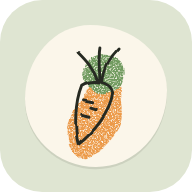
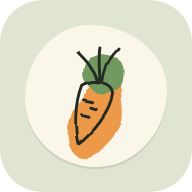
Lista base da casa e cores lisas nos desenhos

Changed region(s): [[0.3438, 0.2812, 0.6562, 0.8438]]

diff --git a/js/dados.js b/js/dados.js
@@ -1,11 +1,18 @@
-// Itens sugeridos no primeiro uso. Tudo pode ser editado ou apagado depois.
+// Lista base da casa, carregada no primeiro uso. Tudo pode ser editado ou apagado depois.
 
 const SUGESTAO = [
-  { nome: 'Mercearia', icone: 'arroz', itens: ['Arroz', 'Feijão', 'Macarrão', 'Açúcar', 'Sal', 'Café', 'Óleo', 'Molho de tomate'] },
-  { nome: 'Carnes e ovos', icone: 'carne', itens: ['Carne moída', 'Frango', 'Bife', 'Linguiça', 'Ovos'] },
-  { nome: 'Frios e laticínios', icone: 'queijo', itens: ['Leite', 'Manteiga', 'Queijo', 'Presunto'] },
-  { nome: 'Hortifrúti', icone: 'cenoura', itens: ['Alho', 'Cebola', 'Tomate', 'Batata', 'Banana'] },
-  { nome: 'Padaria', icone: 'pao', itens: ['Pão'] },
-  { nome: 'Limpeza', icone: 'limpeza', itens: ['Detergente', 'Sabão em pó', 'Amaciante', 'Água sanitária', 'Esponja', 'Saco de lixo'] },
-  { nome: 'Higiene', icone: 'papel', itens: ['Papel higiênico', 'Sabonete', 'Pasta de dente', 'Shampoo', 'Desodorante'] },
+  { nome: 'Alimentos básicos', icone: 'arroz', itens: ['Arroz', 'Feijão', 'Flocão de milho', 'Tabajara', 'Macarrão', 'Tapioca', 'Açúcar', 'Sal', 'Café solúvel', 'Óleo de soja', 'Azeite de oliva', 'Vinagre', 'Leite', 'Leite em pó'] },
+  { nome: 'Temperos e condimentos', icone: 'tempero', itens: ['Alho', 'Cebola', 'Pimenta-do-reino', 'Páprica defumada', 'Cominho', 'Açafrão', 'Chimichurri', 'Louro', 'Molho de tomate', 'Ketchup', 'Mostarda', 'Maionese', 'Molho shoyu'] },
+  { nome: 'Carnes e proteínas', icone: 'carne', itens: ['Peito de frango', 'Coxa e sobrecoxa', 'Carne moída', 'Carne para bife', 'Ovos', 'Sardinha enlatada'] },
+  { nome: 'Frios e laticínios', icone: 'queijo', itens: ['Queijo mussarela', 'Presunto', 'Requeijão', 'Manteiga', 'Iogurte natural', 'Creme de leite', 'Leite condensado'] },
+  { nome: 'Pães e café da manhã', icone: 'pao', itens: ['Pão de forma'] },
+  { nome: 'Frutas', icone: 'maca', itens: ['Banana', 'Maçã', 'Uva', 'Manga', 'Laranja', 'Limão', 'Abacaxi', 'Morango', 'Tangerina'] },
+  // Cebola já está em Temperos; aparece uma vez só.
+  { nome: 'Verduras e legumes', icone: 'folha', itens: ['Tomate', 'Cenoura', 'Batata inglesa', 'Aipim', 'Alface', 'Repolho', 'Couve', 'Coentro', 'Cebolinha', 'Salsa'] },
+  { nome: 'Congelados e práticos', icone: 'congelado', itens: ['Polpa de frutas'] },
+  { nome: 'Lanches e doces', icone: 'doce', itens: ['Milho para pipoca', 'Gelatina'] },
+  { nome: 'Bebidas', icone: 'garrafa', itens: ['Água mineral (galão de 20 L)', 'Refrigerante'] },
+  { nome: 'Produtos de limpeza', icone: 'limpeza', itens: ['Detergente', 'Sabão em pó', 'Amaciante', 'Água sanitária', 'Desinfetante', 'Limpador multiuso', 'Álcool 70%', 'Desengordurante (Cif)', 'Sabão em barra', 'Esponja', 'Palha de aço', 'Sacos de lixo'] },
+  { nome: 'Higiene pessoal', icone: 'sabonete', itens: ['Papel higiênico', 'Sabonete líquido', 'Shampoo', 'Condicionador', 'Máscara capilar', 'Creme de pentear', 'Creme dental', 'Escova de dentes', 'Fio dental', 'Desodorante', 'Hidratante corporal', 'Protetor solar', 'Absorvente', 'Algodão', 'Cotonetes', 'Espuma de barbear'] },
+  { nome: 'Utilidades domésticas', icone: 'casa', itens: ['Papel-toalha', 'Papel-alumínio', 'Papel-filme', 'Papel-manteiga', 'Aromatizador de ambiente'] },
 ];

diff --git a/js/icones.js b/js/icones.js
@@ -1,4 +1,4 @@
-// Ícones desenhados à mão: uma mancha de giz colorida, um pouco deslocada,
+// Ícones desenhados à mão: uma mancha de cor lisa, um pouco deslocada,
 // com o contorno em traço fino de caneta por cima (caixa de 64×64).
 
 const Icones = (() => {
@@ -108,7 +108,7 @@ const Icones = (() => {
     ['arroz|feijao|lentilha|grao|farinha|acucar|aveia|fuba|milho', 'arroz'],
     ['carne|bife|frango|linguica|bacon|costela|file|patinho|alcatra|salsicha|hamburguer', 'carne'],
     ['queijo|presunto|mussarela|requeijao|manteiga|margarina|iogurte', 'queijo'],
-    ['cenoura|batata|mandioca|beterraba|abobora', 'cenoura'],
+    ['cenoura|batata|mandioca|aipim|beterraba|abobora', 'cenoura'],
     ['pao|bolo|biscoito|bolacha|torrada', 'pao'],
     ['detergente|sabao|amaciante|sanitaria|desinfetante|limpador|alvejante|multiuso|esponja|saco de lixo', 'limpeza'],
     ['papel|guardanapo|lenco', 'papel'],
@@ -123,9 +123,9 @@ const Icones = (() => {
     ['chocolate|doce|bala|chiclete|leite condensado', 'doce'],
     ['racao|areia|petisco', 'pata'],
     ['remedio|vitamina|curativo|dipirona', 'remedio'],
-    ['sal|tempero|pimenta|oregano|alho|cebola|caldo', 'tempero'],
+    ['alface|couve|repolho|rucula|espinafre|cheiro verde|coentro|cebolinha|salsa|brocolis|verdura', 'folha'],
+    ['sal|tempero|pimenta|oregano|alho|cebola|caldo|paprica|cominho|acafrao|louro|chimichurri', 'tempero'],
     ['sabonete|shampoo|condicionador|pasta de dente|escova|desodorante|absorvente|fio dental|creme', 'sabonete'],
-    ['alface|couve|rucula|espinafre|cheiro verde|salsinha|brocolis|verdura', 'folha'],
   ].map(([p, nome]) => [new RegExp(`\\b(${p})`), nome]);
 
   function semAcento(t) {
@@ -187,11 +187,8 @@ const Icones = (() => {
 
   const FILTROS = `<defs>
     <filter id="giz" filterUnits="userSpaceOnUse" x="-10" y="-10" width="84" height="84">
-      <feTurbulence type="fractalNoise" baseFrequency="1.2" numOctaves="2" seed="7" result="r"/>
-      <feColorMatrix in="r" type="matrix" values="0 0 0 0 0  0 0 0 0 0  0 0 0 0 0  3.2 0 0 0 -0.7" result="graos"/>
-      <feComposite in="SourceGraphic" in2="graos" operator="in" result="textura"/>
       <feTurbulence type="fractalNoise" baseFrequency="0.07" numOctaves="2" seed="2" result="onda"/>
-      <feDisplacementMap in="textura" in2="onda" scale="4" xChannelSelector="R" yChannelSelector="G"/>
+      <feDisplacementMap in="SourceGraphic" in2="onda" scale="4" xChannelSelector="R" yChannelSelector="G"/>
     </filter>
     <filter id="traco" filterUnits="userSpaceOnUse" x="-10" y="-10" width="84" height="84">
       <feTurbulence type="fractalNoise" baseFrequency="0.05" numOctaves="2" seed="4" result="onda"/>

diff --git a/index.html b/index.html
@@ -10,7 +10,7 @@
   <link rel="icon" href="./icons/icon-192.png">
   <link rel="apple-touch-icon" href="./icons/apple-touch-icon.png">
   <link rel="preload" href="./fonts/shantell-sans.woff2" as="font" type="font/woff2" crossorigin>
-  <link rel="stylesheet" href="./styles.css?v=2">
+  <link rel="stylesheet" href="./styles.css?v=3">
 </head>
 <body>
   <svg id="defs" width="0" height="0" aria-hidden="true" focusable="false"></svg>
@@ -31,10 +31,10 @@
   <div id="folha" class="folha" hidden></div>
   <div id="aviso" class="aviso" role="status" aria-live="polite"></div>
 
-  <script src="./js/icones.js?v=2"></script>
-  <script src="./js/dados.js?v=2"></script>
-  <script src="./js/exportar.js?v=2"></script>
-  <script src="./js/app.js?v=2"></script>
+  <script src="./js/icones.js?v=3"></script>
+  <script src="./js/dados.js?v=3"></script>
+  <script src="./js/exportar.js?v=3"></script>
+  <script src="./js/app.js?v=3"></script>
   <script>
     if ('serviceWorker' in navigator) {
       window.addEventListener('load', () => navigator.serviceWorker.register('./sw.js'));

diff --git a/sw.js b/sw.js
@@ -1,18 +1,18 @@
 // Service Worker: guarda o app no aparelho para abrir sem internet.
 // Ao mudar qualquer arquivo, aumente a versão do CACHE.
 
-const CACHE = 'despensa-v2';
+const CACHE = 'despensa-v3';
 
 const SHELL = [
   './',
   './index.html',
-  './styles.css?v=2',
+  './styles.css?v=3',
   './manifest.json',
-  './js/icones.js?v=2',
-  './js/dados.js?v=2',
+  './js/icones.js?v=3',
+  './js/dados.js?v=3',
   './fonts/shantell-sans.woff2',
-  './js/exportar.js?v=2',
-  './js/app.js?v=2',
+  './js/exportar.js?v=3',
+  './js/app.js?v=3',
   './icons/icon-192.png',
   './icons/icon-512.png',
   './icons/icon-maskable-512.png',

diff --git a/styles.css b/styles.css
@@ -82,7 +82,7 @@ button:disabled { cursor: default; opacity: .45; }
 svg.ui { width: 24px; height: 24px; flex: none; fill: none; stroke: currentColor; stroke-width: 2; stroke-linecap: round; stroke-linejoin: round; }
 svg.ilustra { width: 48px; height: 48px; flex: none; overflow: visible; }
 svg.ilustra.mini { width: 38px; height: 38px; margin: -4px 0; }
-.giz { opacity: .92; }
+.giz { opacity: .85; }
 
 /* ---------- topo e abas ---------- */
 
